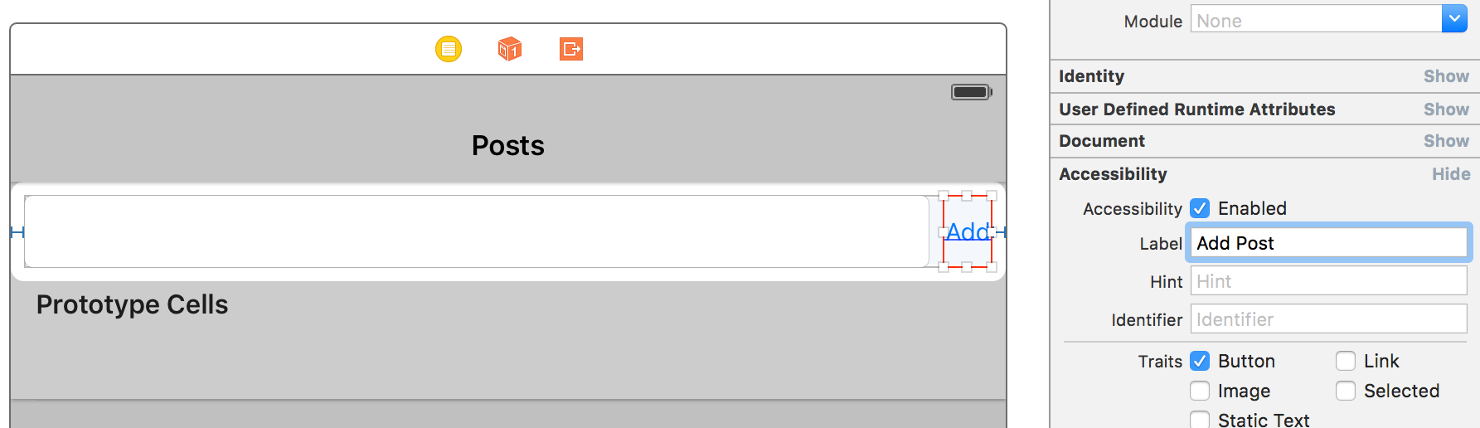
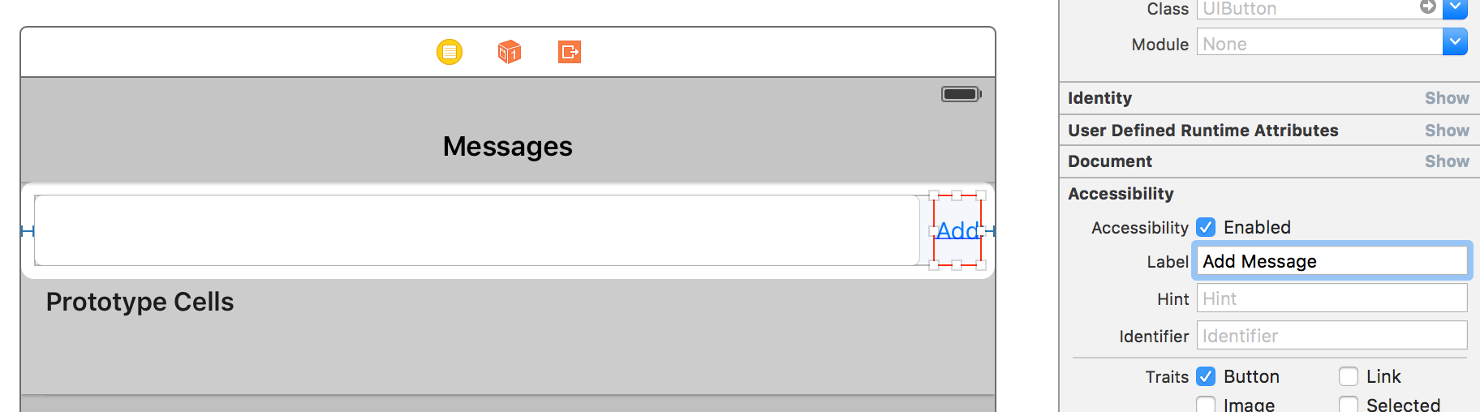
Fix screenshots

diff --git a/cocoa-touch/_commits.md b/cocoa-touch/_commits.md
@@ -40,7 +40,7 @@ The first error we get is that there is no message field:
 Red: Failed to find accessibility element with the label "New Message Field"
 
 
-### Add new message field [<span class="octicon octicon-mark-github"></span>](https://github.com/learn-tdd-in/cocoa-touch/commit/3e78999b4f0d53676b9d2326667e1949f64a4d28)
+### Add new message field [<span class="octicon octicon-mark-github"></span>](https://github.com/learn-tdd-in/cocoa-touch/commit/c45418a881370b448814bbd73f0cd149d6914a63)
 
 
 ![Message Field](message-field.png)
@@ -52,7 +52,7 @@ The next error we get is similar: now we can't find the Add Message button:
 Red: Failed to find accessibility element with the label "Add Message"
 
 
-### Add Add Message button [<span class="octicon octicon-mark-github"></span>](https://github.com/learn-tdd-in/cocoa-touch/commit/09757fa24a5452fc28a6e6ac0e08d9600d5cf81f)
+### Add Add Message button [<span class="octicon octicon-mark-github"></span>](https://github.com/learn-tdd-in/cocoa-touch/commit/207c49c7c333352a0bcea0137af80ce06021d0de)
 
 
 ![Add Button](add-button.png)
@@ -64,7 +64,7 @@ Next, the test can't find the table to look in:
 Red: Could not find element with accessibilityIdentifier == "Messages Table"
 
 
-### Set table accessibility identifier [<span class="octicon octicon-mark-github"></span>](https://github.com/learn-tdd-in/cocoa-touch/commit/e2d5a687cf529c06abea02d66aaf0192b075797d)
+### Set table accessibility identifier [<span class="octicon octicon-mark-github"></span>](https://github.com/learn-tdd-in/cocoa-touch/commit/037bc7792ab8b48f72270f670dd70d21c4086621)
 
 #### Learn TDD in Cocoa Touch/MessagesViewController.swift
 
@@ -87,7 +87,7 @@ Next, the acceptance test can find the table, but it expects there to be a row a
 Red: Row 0 is not found in section 0 of table view
 
 
-### Display contents of message store in table view [<span class="octicon octicon-mark-github"></span>](https://github.com/learn-tdd-in/cocoa-touch/commit/0bae46a859ba18d4a998aa9a19dd2f820aacc3ac)
+### Display contents of message store in table view [<span class="octicon octicon-mark-github"></span>](https://github.com/learn-tdd-in/cocoa-touch/commit/483db89e6aff11bff1285bfaa42aa0321591726c)
 
 #### Learn TDD in Cocoa Touch/MessagesViewController.swift
 
@@ -122,7 +122,7 @@ Red: Use of undeclared identifier ‘MessageStore’
 We get an error that the `MessageStore` we've referred to doesn't exist.
 
 
-### Add message store class [<span class="octicon octicon-mark-github"></span>](https://github.com/learn-tdd-in/cocoa-touch/commit/bdac296a2966377345791a30226cd34838f5ce7a)
+### Add message store class [<span class="octicon octicon-mark-github"></span>](https://github.com/learn-tdd-in/cocoa-touch/commit/d98093cbb7b0174daf6917522a66077c674dfd10)
 
 #### Learn TDD in Cocoa Touch/MessageStore.swift
 
@@ -137,7 +137,7 @@ To make sure we don't implement more than the tests are driving us to, we do the
 First Red: Value of type ‘MessageStore’ has no member ‘count’
 
 
-### Add count property [<span class="octicon octicon-mark-github"></span>](https://github.com/learn-tdd-in/cocoa-touch/commit/730098de643102345293219a2cdd17f5e911e5bf)
+### Add count property [<span class="octicon octicon-mark-github"></span>](https://github.com/learn-tdd-in/cocoa-touch/commit/e599028baae4c884fff23ac5e2e9157348c41a7f)
 
 #### Learn TDD in Cocoa Touch/MessageStore.swift
 
@@ -160,7 +160,7 @@ First Red: Value of type `PostStore` has no member `create`
 With that, the compiler is satisfied with our `count` property, and the next error is that `PostStore` also needs a `create()` method.
 
 
-### Add create function [<span class="octicon octicon-mark-github"></span>](https://github.com/learn-tdd-in/cocoa-touch/commit/8e78d0d568eb2b6e5b930ae20b76d4d98d9ab554)
+### Add create function [<span class="octicon octicon-mark-github"></span>](https://github.com/learn-tdd-in/cocoa-touch/commit/cf0f496ca3d31e1be9de20577a9a60ff14400372)
 
 #### Learn TDD in Cocoa Touch/MessageStore.swift
 
@@ -184,7 +184,7 @@ Red: Row 0 is not found in section 0 of table view
 This is the same failed assertion we saw before. We've made the number of rows in the table driven off of the `MessageStore`, but because the `MessageStore` always returns a count of 0, the row we need never appears. We need the `MessageStore`'s `count` to return 1 after `create()` is called.
 
 
-### Specify count should be 1 after creating [<span class="octicon octicon-mark-github"></span>](https://github.com/learn-tdd-in/cocoa-touch/commit/9caeaed2840ec7508b27abc348f8d40f2e636d49)
+### Specify count should be 1 after creating [<span class="octicon octicon-mark-github"></span>](https://github.com/learn-tdd-in/cocoa-touch/commit/f0bae2fca39ec2ea82aecac490e4c67eeadc5e34)
 
 #### Unit Tests/MessageStoreTests.swift
 
@@ -222,7 +222,7 @@ Red: Expected store.count() to be 1 but was 0
 This failed assertion is exactly the same problem we see at the acceptance level, so now we're ready to implement this behavior.
 
 
-### Increase message count when `create()` is called [<span class="octicon octicon-mark-github"></span>](https://github.com/learn-tdd-in/cocoa-touch/commit/48e2a7c5c2b1a10439d0be9202287efc0a5a4c78)
+### Increase message count when `create()` is called [<span class="octicon octicon-mark-github"></span>](https://github.com/learn-tdd-in/cocoa-touch/commit/2b344d0c4441892b6ede2e5c75e96027fff50538)
 
 #### Learn TDD in Cocoa Touch/Message.swift
 
@@ -266,7 +266,7 @@ Outer red: UITableView…failed to obtain a cell from its dataSource
 The table view is trying to create a cell, which means we succeeded in increasing the row count when the user clicks "Add." But now the table view needs to know how to create a cell.
 
 
-### Set up cell for table view [<span class="octicon octicon-mark-github"></span>](https://github.com/learn-tdd-in/cocoa-touch/commit/c8fe5abd4f5221c5ae3910f3033d4d33169cac06)
+### Set up cell for table view [<span class="octicon octicon-mark-github"></span>](https://github.com/learn-tdd-in/cocoa-touch/commit/fdc13c8b288d2b33ab54fad60cc171478edf1506)
 
 #### Learn TDD in Cocoa Touch/MessagesViewController.swift
 
@@ -290,7 +290,7 @@ Red: Expected cell label to be 'Hello, test!', was '(null)'
 Now the cell is retrieved, but our assertion about the content of the cell's label is failing. Because we didn't customize the cell at all, it doesn't have a label by default.
 
 
-### Pass text along into message [<span class="octicon octicon-mark-github"></span>](https://github.com/learn-tdd-in/cocoa-touch/commit/43191f529ebb1c05977e3d105936d4851184dd30)
+### Pass text along into message [<span class="octicon octicon-mark-github"></span>](https://github.com/learn-tdd-in/cocoa-touch/commit/086f4b14464b33ba23fe3d6fad61a89a3c13d53e)
 
 #### Learn TDD in Cocoa Touch/MessagesViewController.swift
 
@@ -335,7 +335,7 @@ First Red: Value of type `MessageStore` has no member `find`
 The first compilation error we get is that there is no `find()` method on `MessageStore`.
 
 
-### Add find method [<span class="octicon octicon-mark-github"></span>](https://github.com/learn-tdd-in/cocoa-touch/commit/6b3b3296f1dbd4d479dc093c2d5722bcd13a0dde)
+### Add find method [<span class="octicon octicon-mark-github"></span>](https://github.com/learn-tdd-in/cocoa-touch/commit/03a55b174150a503e752e47368d1197ceec18e38)
 
 #### Learn TDD in Cocoa Touch/MessageStore.swift
 
@@ -357,7 +357,7 @@ Red: Value of type `Message` has no member `text`
 Now our `Message` is being returned to the view controller, but when it tries to access the `text` property, there isn't one.
 
 
-### Add text property to message [<span class="octicon octicon-mark-github"></span>](https://github.com/learn-tdd-in/cocoa-touch/commit/a453b18c26ee0fdf0784f4280d11fab1aeb392aa)
+### Add text property to message [<span class="octicon octicon-mark-github"></span>](https://github.com/learn-tdd-in/cocoa-touch/commit/519378e22670895ea40cebe4cee807303b6be3b4)
 
 #### Learn TDD in Cocoa Touch/Message.swift
 
@@ -376,7 +376,7 @@ Red: Argument passed to a call that takes no arguments
 Previously `create()` didn't have any arguments because all it needed to do was result in an incremented `count`. Now that our view controller is passing a dictionary into it with the message string, we need to update our other code to match.
 
 
-### Add message data param [<span class="octicon octicon-mark-github"></span>](https://github.com/learn-tdd-in/cocoa-touch/commit/f2144234b24e43e700134dce375118257a4ff3cf)
+### Add message data param [<span class="octicon octicon-mark-github"></span>](https://github.com/learn-tdd-in/cocoa-touch/commit/f2b709355a81d873e2265e754ba46d31feff1b5e)
 
 #### Learn TDD in Cocoa Touch/MessageStore.swift
 
@@ -412,7 +412,7 @@ Red: Expected cell label to be 'Hello, test!', was '(null)'
 Like last time, this is the same acceptance test failure we were getting previously. We've added the parameters and properties to pass the message along from the text field into the cell label, but we haven't actually persisted it: in our `find()` method, we just return an empty `Message`.
 
 
-### Add store unit test for find [<span class="octicon octicon-mark-github"></span>](https://github.com/learn-tdd-in/cocoa-touch/commit/2077365918b8eaf0906ea2bb56ca78379ac48719)
+### Add store unit test for find [<span class="octicon octicon-mark-github"></span>](https://github.com/learn-tdd-in/cocoa-touch/commit/a7b1fe55edd6e0ecdb2ab0d706a6c7e55a1a5bda)
 
 #### Unit Tests/MessageStoreTests.swift
 
@@ -438,7 +438,7 @@ Red: (“nil”) is not equal to (“Optional(“test message”)”)
 With this unit test failure, we've reproduced the problem we're seeing at the acceptance test level.
 
 
-### Save and retrieve message with data [<span class="octicon octicon-mark-github"></span>](https://github.com/learn-tdd-in/cocoa-touch/commit/f6ac6fba7b2e14639c8f58da3da93df74e2c4ce5)
+### Save and retrieve message with data [<span class="octicon octicon-mark-github"></span>](https://github.com/learn-tdd-in/cocoa-touch/commit/5447ebf4e0e31cdfe231f3d3eba4423d26fee3fe)
 
 #### Learn TDD in Cocoa Touch/MessageStore.swift
 
